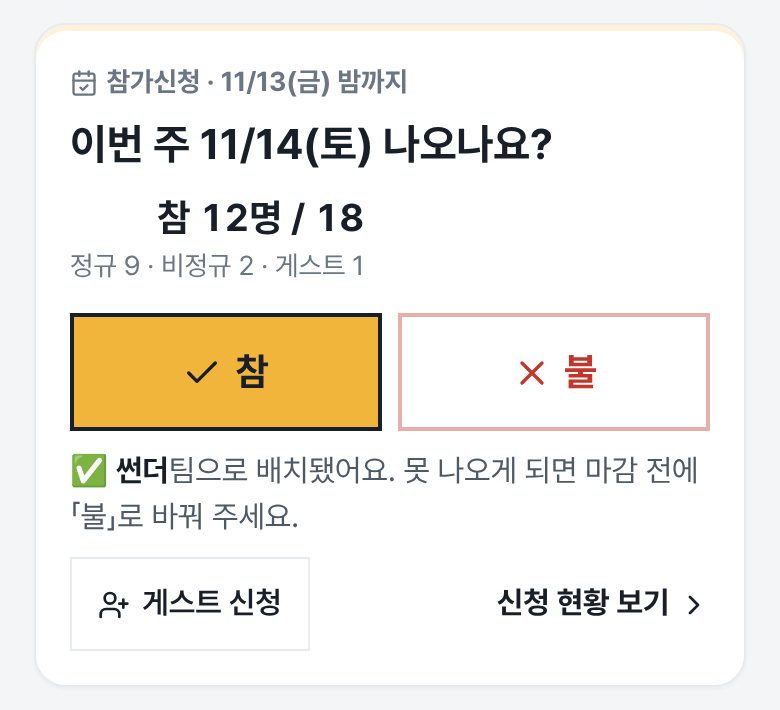
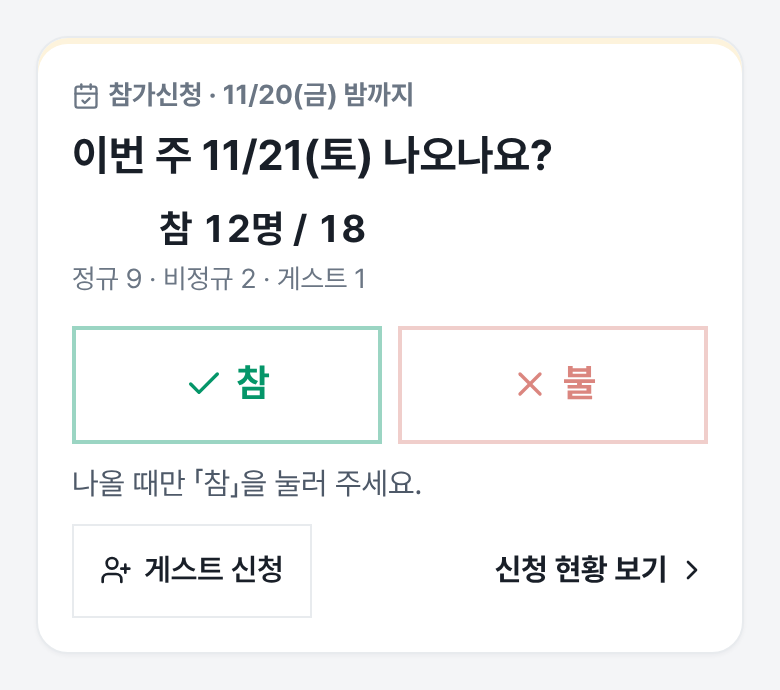
회원 가이드: 참가신청 카드 그림 새로 찍음(비정규 — 「불」 비활성 · 「나올 때만 참」)
Claude-Session: https://claude.ai/code/session_01XKriD9hMdKkZ6F7AF6kXhd

diff --git a/src/components/league/guide/GuideContent.tsx b/src/components/league/guide/GuideContent.tsx
@@ -63,7 +63,7 @@ function Steps({ lines }: { lines: GuideLine[] }) {
 }
 
 // 그림 가로·세로(px) — 불러오기 전에도 틀 크기를 잡는다(지연 로딩 때 틀이 0 폭으로 접혔다). 그림을 바꾸면 같이 고친다.
-const IMG_SIZE: Record<string, [number, number]> = { 'boxscore': [780, 2200], 'guest-sheet': [780, 1600], 'highlights': [780, 1696], 'last-day': [780, 424], 'leaderboard': [780, 2300], 'me': [780, 1240], 'player-card': [780, 1800], 'rsvp-board': [780, 1998], 'rsvp-card': [780, 730], 'signup': [780, 1020], 'teams': [780, 1800], 'wallet-charge': [780, 970], 'wallet-ticket': [780, 1000], 'wallet': [780, 864] }
+const IMG_SIZE: Record<string, [number, number]> = { 'boxscore': [780, 2200], 'guest-sheet': [780, 1600], 'highlights': [780, 1696], 'last-day': [780, 424], 'leaderboard': [780, 2300], 'me': [780, 1240], 'player-card': [780, 1800], 'rsvp-board': [780, 1998], 'rsvp-card': [780, 704], 'signup': [780, 1020], 'teams': [780, 1800], 'wallet-charge': [780, 970], 'wallet-ticket': [780, 1000], 'wallet': [780, 864] }
 
 /** 폰 화면 그림 — 둥근 테두리 액자 + 설명 한 줄. 세로로 긴 그림은 높이(폰 600 · PC 520)에 맞춰 폭을 줄인다 */
 function Shot({ image, caption }: { image: string; caption?: string }) {

diff --git a/scripts/guide-annotate.py b/scripts/guide-annotate.py
@@ -6,7 +6,7 @@ F = ImageFont.truetype('/usr/share/fonts/truetype/wqy/wqy-zenhei.ttc', 30)
 RED = (255, 59, 48)
 MARKS = {
   'signup':        [((50, 952, 730, 1072), '여기를 누르세요', 'bl')],
-  'rsvp-card':     [((56, 300, 716, 440), '참 · 불 누르기', 'tr'), ((56, 544, 322, 660), '게스트 부르기', 'bl')],
+  'rsvp-card':     [((56, 309, 724, 460), '참 · 불 누르기', 'tr'), ((56, 508, 327, 634), '게스트 부르기', 'bl')],
   'guest-sheet':   [((546, 488, 742, 610), '다시 신청')],
   'wallet':        [((572, 148, 724, 270), '충전'), ((490, 390, 724, 490), '티켓 사기')],
   'wallet-charge': [((486, 532, 730, 626), '계좌번호 복사')],
